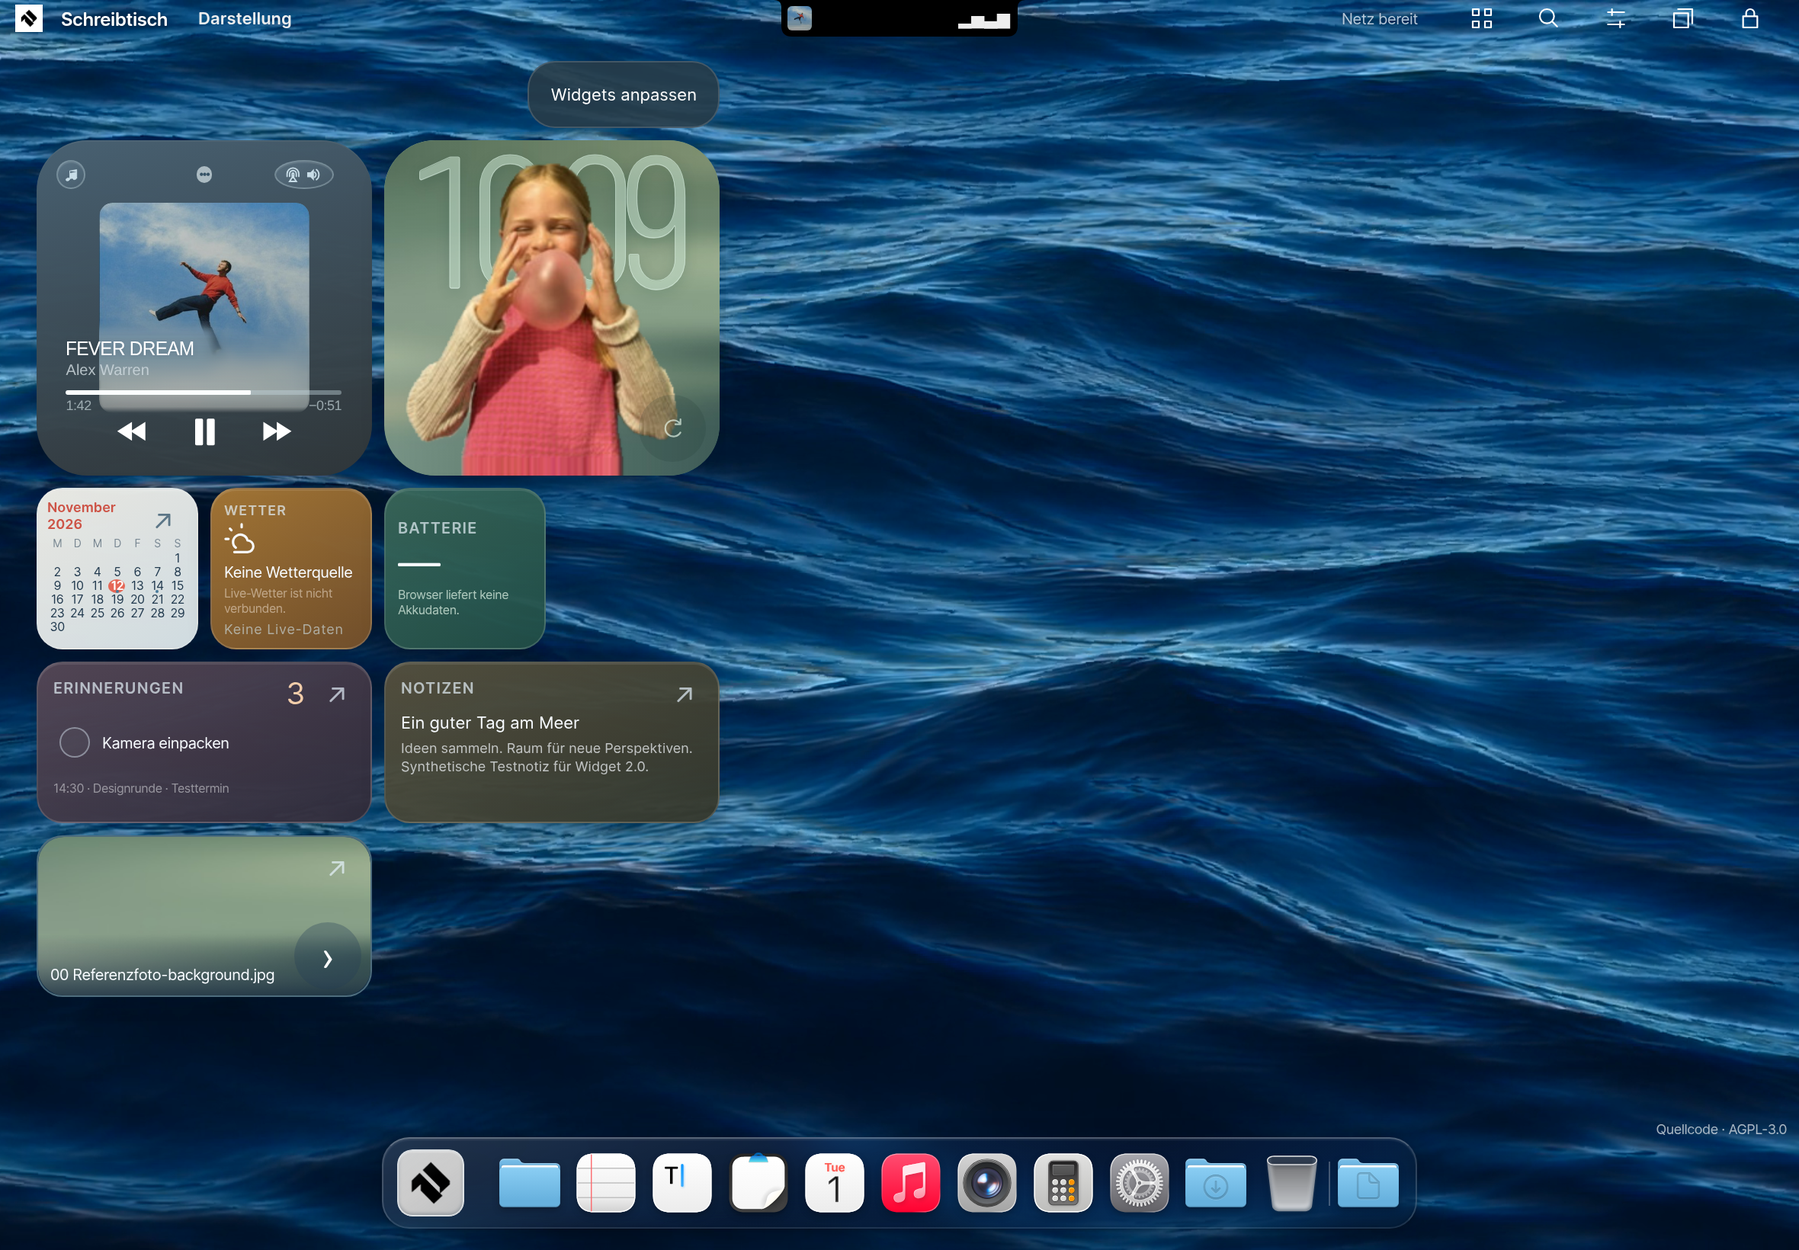
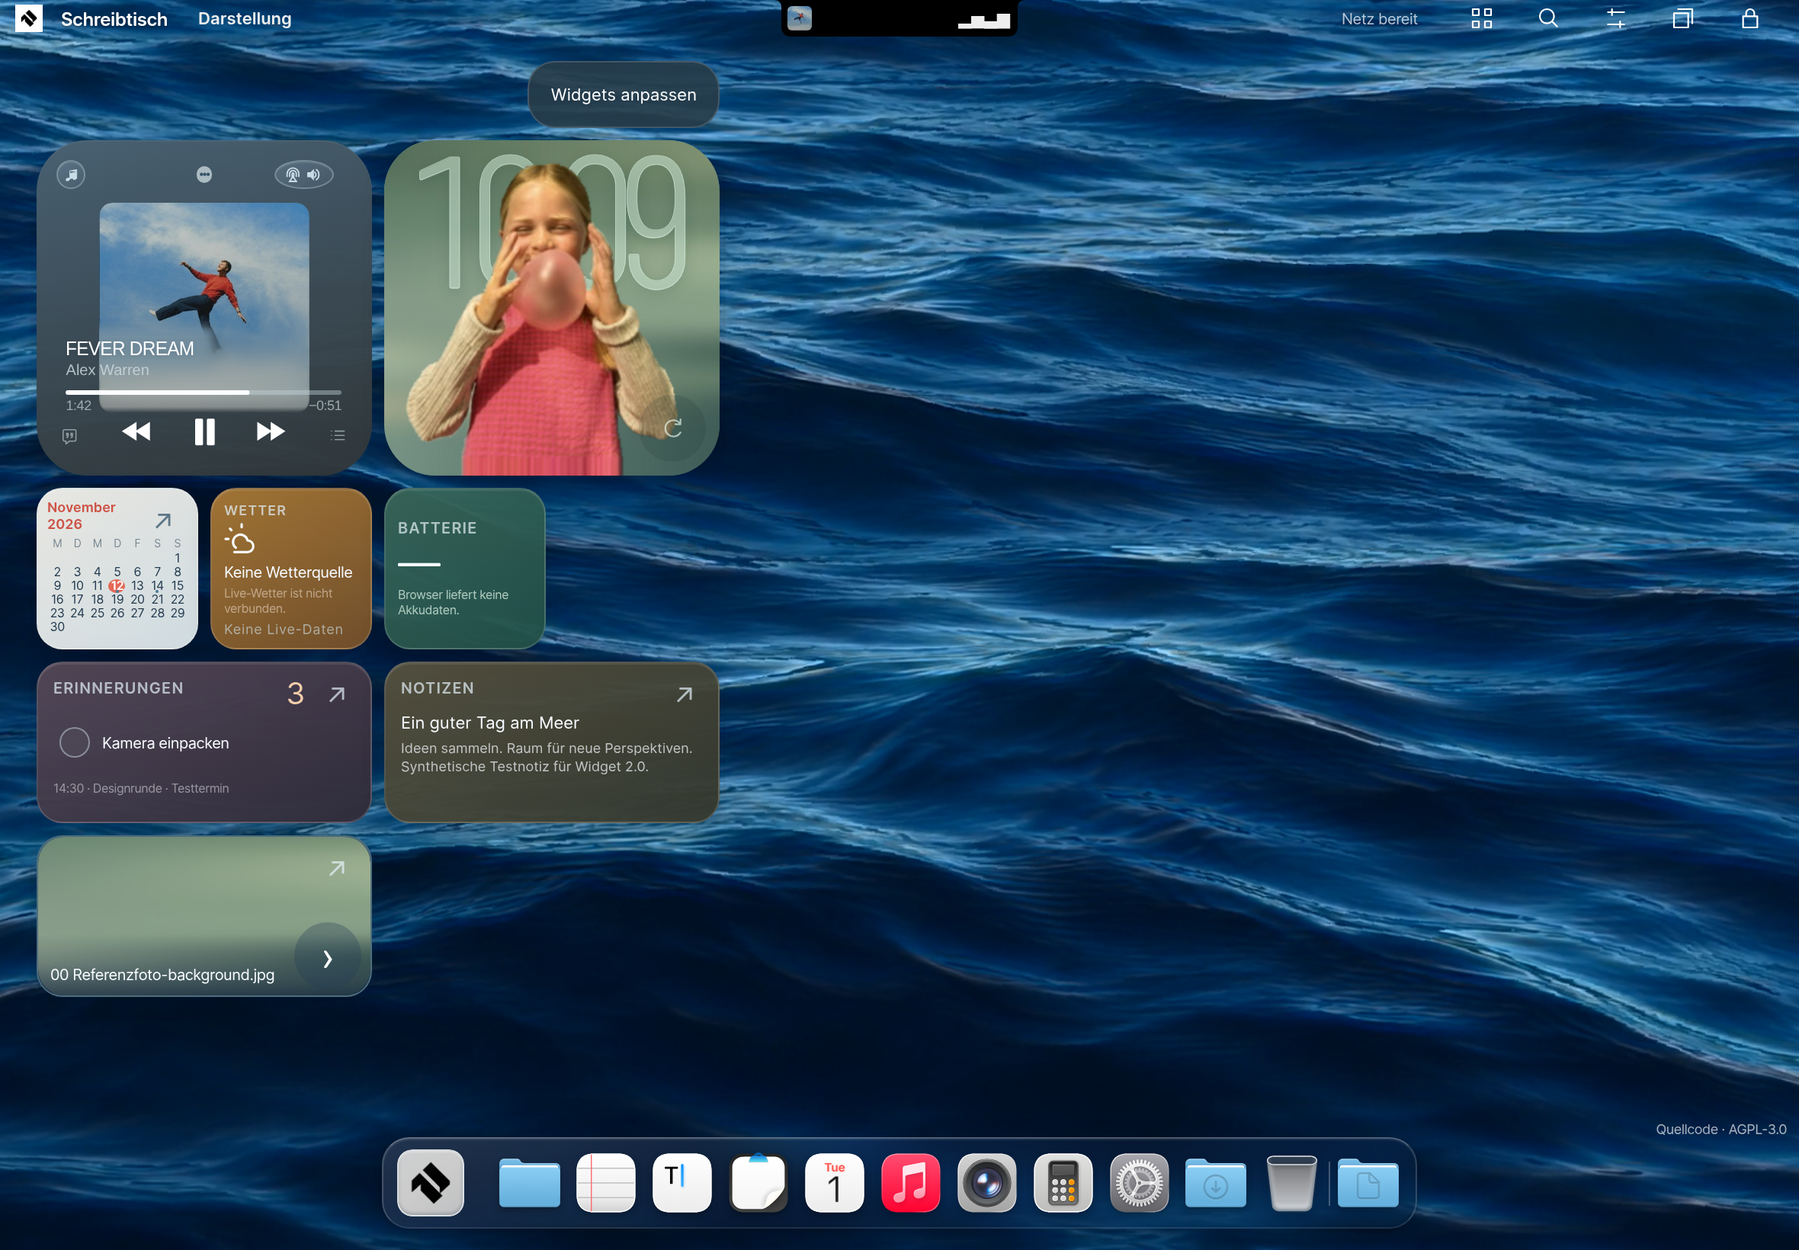
fix(ipad): retain all large player symbols within 220px touch layout

diff --git a/ipad/sw.js b/ipad/sw.js
@@ -1,8 +1,8 @@
 'use strict';
 const CACHE_PREFIX='air-os-ipad-'+encodeURIComponent(self.registration.scope)+'-';
-const CACHE_VERSION=CACHE_PREFIX+'air-os-ipad-v5-3f6326f4f353d0901bc1';
+const CACHE_VERSION=CACHE_PREFIX+'air-os-ipad-v5-4d757c6260c7e52a3532';
 const SHELL=["./","./NOTICE","./air-flow.css","./air-logo.png","./air-os-official.png","./app.js","./apps.js","./assets/fonts/Barlow-OFL.txt","./assets/fonts/OpenRunde-Regular.otf","./assets/fonts/OpenRunde-Semibold.otf","./assets/fonts/barlow-clock.woff2","./assets/forest-path.jpg","./assets/forest-path.metadata.json","./assets/lake-evening.jpg","./assets/lake-evening.metadata.json","./assets/ocean-blue.jpg","./assets/ocean-blue.mp4","./assets/yosemite-morning.metadata.json","./assets/yosemite-morning.png","./backup.js","./core/desktop-sessions.js","./core/genie-model.js","./core/genie-transition.js","./core/infinity-dock.js","./core/infinity-notification.js","./core/infinity-web.js","./core/music-metadata.js","./core/playback-history.js","./core/security.js","./core/transfers.js","./core/visual-icons.js","./core/visual-motion.js","./core/wallpaper.js","./core/widget-layout.js","./core/window-model.js","./desktop.css","./desktop.js","./dock-material.js","./icon.svg","./icons/AUTHORS","./icons/COPYING","./icons/NOTICE","./icons/browser/document-save-symbolic.svg","./icons/browser/edit-copy-symbolic.svg","./icons/browser/edit-delete-symbolic.svg","./icons/browser/edit-paste-symbolic.svg","./icons/browser/go-next-symbolic.svg","./icons/browser/go-previous-symbolic.svg","./icons/browser/go-up-symbolic.svg","./icons/source/actions/16/document-new.svg","./icons/source/actions/16/document-open.svg","./icons/source/actions/16/document-save.svg","./icons/source/actions/16/edit-copy.svg","./icons/source/actions/16/edit-cut.svg","./icons/source/actions/16/edit-delete.svg","./icons/source/actions/16/edit-paste.svg","./icons/source/actions/16/edit-redo.svg","./icons/source/actions/16/edit-undo.svg","./icons/source/actions/16/go-home.svg","./icons/source/actions/16/go-next.svg","./icons/source/actions/16/go-previous.svg","./icons/source/actions/16/go-up.svg","./icons/source/actions/16/list-add.svg","./icons/source/actions/16/list-remove.svg","./icons/source/actions/16/media-playback-pause.svg","./icons/source/actions/16/media-playback-start.svg","./icons/source/actions/16/media-skip-backward.svg","./icons/source/actions/16/media-skip-forward.svg","./icons/source/actions/16/view-refresh.svg","./icons/source/actions/16/window-close.svg","./icons/source/actions/22/view-grid.svg","./icons/source/actions/32/system-search.svg","./icons/source/actions/symbolic/document-save-symbolic.svg","./icons/source/actions/symbolic/edit-copy-symbolic.svg","./icons/source/actions/symbolic/edit-delete-symbolic.svg","./icons/source/actions/symbolic/edit-paste-symbolic.svg","./icons/source/actions/symbolic/go-next-symbolic.svg","./icons/source/actions/symbolic/go-previous-symbolic.svg","./icons/source/actions/symbolic/go-up-symbolic.svg","./icons/source/apps/scalable/accessories-camera.svg","./icons/source/apps/scalable/accessories-text-editor.svg","./icons/source/apps/scalable/calc.svg","./icons/source/apps/scalable/calendar.svg","./icons/source/apps/scalable/evolution-tasks.svg","./icons/source/apps/scalable/gnome-music.svg","./icons/source/apps/scalable/internet-mail.svg","./icons/source/apps/scalable/preferences-system.svg","./icons/source/apps/scalable/text-editor.svg","./icons/source/categories/32/applications-internet.svg","./icons/source/devices/scalable/audio-headphones.svg","./icons/source/devices/scalable/computer.svg","./icons/source/devices/scalable/drive-harddisk.svg","./icons/source/devices/scalable/drive-removable-media.svg","./icons/source/devices/scalable/input-keyboard.svg","./icons/source/places/scalable/folder-documents.svg","./icons/source/places/scalable/folder-download.svg","./icons/source/places/scalable/folder-images.svg","./icons/source/places/scalable/folder-music.svg","./icons/source/places/scalable/folder-videos.svg","./icons/source/places/scalable/folder.svg","./icons/source/places/scalable/user-home.svg","./icons/source/places/scalable/user-trash.svg","./icons/source/status/16/task-complete.svg","./icons/source/status/32/dialog-warning.svg","./licenses/Air-OS-MIT.txt","./licenses/InfinityOS-AGPL-3.0.txt","./licenses/InfinityOS-Linux-GPL-3.0.txt","./licenses/KDE-wallpaper-LGPL-3.0.txt","./licenses/MacShell-MIT.txt","./licenses/MacShell-MacLock-MIT.txt","./licenses/MacTahoe-GTK-MIT.txt","./licenses/OpenRunde-OFL-1.1.txt","./liquid-maclock.css","./maclock.js","./manifest.webmanifest","./notch/model.js","./notch/motion-data.js","./notch/pro-notch.css","./notch/pro-notch.js","./playback-history.js","./premium4.css","./provenance.json","./registry.js","./source/source-info.json","./source/source.zip","./spotify.js","./storage.js","./styles.css","./system3.css","./vendor/SOURCE.json","./vendor/air-arcade-games.css","./vendor/air-arcade-games.js","./vendor/airwrite.css","./vendor/airwrite.js","./vendor/glass/geometry.js","./vendor/glass/maclock-original.frag","./vendor/glass/provenance.json","./vendor/glass/renderer.js","./vendor/glass/shaders.js","./vendor/infinityos/launcher-model.js","./vendor/infinityos/linux-excerpts.txt","./vendor/infinityos/provenance.json","./vendor/infinityos/web-excerpts.txt","./vendor/macshell/clock-dial.js","./vendor/macshell/shell7.js","./vendor/premium4-provenance.json","./vendor/premium4-source-excerpts.txt","./vendor/system3-provenance.json","./wallpaper.css","./widgets-2.css","./widgets.js"];
[2 lines of base64/hex data omitted]
 const scope=new URL(self.registration.scope),allowed=new Map(SHELL.map(p=>[new URL(p,scope).href,p]));
 function withoutRedirect(response){return new Response(response.body,{status:response.status,statusText:response.statusText,headers:response.headers});}
 async function verified(response,path){const expected=INTEGRITY[path];if(!expected||!response?.ok||response.redirected||['opaque','opaqueredirect'].includes(response.type))return false;const mime=(response.headers.get('content-type')||'').split(';')[0].trim().toLowerCase();if(path==='./'&&mime!=='text/html'||path.endsWith('.css')&&mime!=='text/css'||path.endsWith('.js')&&!['text/javascript','application/javascript','text/ecmascript','application/ecmascript'].includes(mime))return false;if(!response.headers.get('Content-Encoding')&&Number(response.headers.get('Content-Length'))>expected.bytes)return false;const reader=response.clone().body?.getReader();if(!reader)return false;let length=0;const chunks=[];try{for(;;){const part=await reader.read();if(part.done)break;length+=part.value.byteLength;if(length>expected.bytes){void reader.cancel().catch(()=>{});void response.body?.cancel().catch(()=>{});return false;}chunks.push(part.value);}}finally{reader.releaseLock();}if(length!==expected.bytes)return false;const bytes=new Uint8Array(length);let at=0;for(const c of chunks){bytes.set(c,at);at+=c.length;}const hash=Array.from(new Uint8Array(await crypto.subtle.digest('SHA-256',bytes)),b=>b.toString(16).padStart(2,'0')).join('');return hash===expected.sha256;}

diff --git a/ipad/index.html b/ipad/index.html
@@ -19,7 +19,7 @@
   <title>Air-OS iPad</title>
   <link rel="stylesheet" href="./vendor/airwrite.css" integrity="sha256-UWDneUryi+OGGtwaCGKI/16aGSVY6YDP8UkHFvJ+P8w="><link rel="stylesheet" href="./vendor/air-arcade-games.css" integrity="sha256-Duk5jAj3Z4mbzPaI0wLWMo41PjQjukaa+Mdtn/9fLE4="><link rel="stylesheet" href="./desktop.css" integrity="sha256-dq5+tzufIrsBGGMswKbyM2OgbM9zhZGj4zsMt0Q9P/s=">
   <script defer src="./core/visual-icons.js" integrity="sha256-oJrcFmIULBekzuVNsv4fZKr3issvyT48TjOMRD2dm1c="></script><script defer src="./registry.js" integrity="sha256-X+Z7pzwrGo5I/cStrX/q73s4y45Ly4X8SDqQ6TgUj8w="></script><script defer src="./core/infinity-web.js" integrity="sha256-gZT6e9ilnM8A/GnHP5IugdctnrtMonf4vp29+XvC1H0="></script><script defer src="./core/infinity-notification.js" integrity="sha256-AZmQ8oIm1jrzFShaG2RFLTCcvSTFdw3UwVFqIS4XIl8="></script><script defer src="./core/infinity-dock.js" integrity="sha256-6iby4VvqdLt1ZZy7KteKgAefWTijvnCSUOo+wGKJCHY="></script><script defer src="./core/desktop-sessions.js" integrity="sha256-FXozxdmvoEaUy2Ryy2JRZ98Ubg4/ii/jotKlEzMsf/o="></script><script defer src="./core/window-model.js" integrity="sha256-Q6u+H2yiZk37dVsqWdZTRBWpDXndy3/7IgLElDfLo9k="></script><script defer src="./core/music-metadata.js" integrity="sha256-tOjV5Yilx2b8HSLqvxYhuAmolaQbWJftLhtSUF5TFks="></script><script defer src="./storage.js" integrity="sha256-0Ccyx4mw9r8W2BSl49emEHLqKOW/dNfZ/+81MBkbiAA="></script><script defer src="./vendor/airwrite.js" integrity="sha256-0xkN4vsNZUOD1YmOvm8UGrLc+jyBhOyGke8DqWgfv/c="></script><script defer src="./vendor/air-arcade-games.js" integrity="sha256-O1sd0DxsdODpG9y8ePCAhXBQbSZrLsQf5OgzFrvfKEo="></script><script defer src="./core/transfers.js" integrity="sha256-lTXgEvkDB/2dfKjVySKrZGXI3f7eUcly+QPYO+Bwkek="></script><script defer src="./app.js" integrity="sha256-bOhGFkgs3FIsCBy+8o2zb0LAbHR+Qm2tEsNQblW8w4I="></script><script defer src="./core/wallpaper.js" integrity="sha256-8fgcZJMVMifkRneKc7U3/Ba6RwyDRaChWIm+hB9AZ9g="></script><script defer src="./apps.js" integrity="sha256-QCgy/5JX0jf+N/UolaiqOMoVjcGVYHVRP4rk1MUS/BY="></script><script defer src="./backup.js" integrity="sha256-wSsfgqhsh/NVqvCMFULrTHoEg4e+VWas5JPKMCSNJiA="></script><script defer src="./vendor/macshell/shell7.js" integrity="sha256-oK82EbrNngVz2IW4X6X/OGwyv1vOBRS/w1itW9a01Us="></script><script defer src="./dock-material.js" integrity="sha256-CcMkKOn2CiRXj2Kru0G4Na3HbNB4pZhXW9/X29wiO0A="></script><script defer src="./vendor/infinityos/launcher-model.js" integrity="sha256-Bo9BP4vSAANCX5dzZ1LLd31aCkyotsy1FUftYOkfz4Q="></script><script defer src="./core/genie-model.js" integrity="sha256-Sg3WtFOMNq8+/4j5XfT7u/eJQoo0G+zxv1CpmOQE1C0="></script><script defer src="./core/visual-motion.js" integrity="sha256-2ieSOmcntrAjTabdeCipbX7LT8o9JVQSJ/7fuNYxcjI="></script><script defer src="./core/genie-transition.js" integrity="sha256-7mAIvHFsX8qH5m2snmOTkzIHr8XnesMrbnwkYjcAgpM="></script><script defer src="./desktop.js" integrity="sha256-pLi00SxuB1WUgSniD/qoETQtXUo0yPB0LQ3Tc5KUIZQ="></script><script defer src="./vendor/macshell/clock-dial.js" integrity="sha256-pPPG3jy70ljPgSzNMxbWahIuSiizrcVV7QXe/CuCUmg="></script><script defer src="./core/widget-layout.js" integrity="sha256-YVPy0ZO024gMaZuLD74sGkD0uYqTVEHxN56W/sZuB24="></script><script defer src="./widgets.js" integrity="sha256-4UPsT8qrQ94+A5TAyEzZa4YM4Ug8yW+Odn51OV0xcqQ="></script><script defer src="./core/playback-history.js" integrity="sha256-FnaZlTfp1mUX/j4iTJD2UvMZP0cBbzFCaSaKsHf3hkA="></script><script defer src="./playback-history.js" integrity="sha256-1F9253GOyM+Htk45/W4YpV0EDSJqr9CWFrydg98Mg2M="></script><script defer src="./spotify.js" integrity="sha256-FQBabe6EobRHQiUyxB9bq8cQ2m17NQi3Z6/DfLxCXwE="></script><script defer src="./vendor/glass/geometry.js" integrity="sha256-Q1EF0peL4XRZ6dgimRZjqf+l8Oi4Qvcqht4Y6FY73Aw="></script><script defer src="./maclock.js" integrity="sha256-FDmFQJB3Q/qZoQgR+jR7GrJ3ILvAglxNRLKKe0ph+oY="></script><script defer src="./notch/motion-data.js" integrity="sha256-8p2H/PLsj0Q8jJKSMhTa8oA2oYLkB9qG766cZF29V/Q="></script><script defer src="./notch/model.js" integrity="sha256-guex9C1JJYN9NA9mi+2BN37Szwtyt2/yFRxI28OmJYE="></script><script defer src="./notch/pro-notch.js" integrity="sha256-pddbmBYtshIgIw1lCMboqsGz30s1WPDYDiqxbePT0Ow="></script><script defer src="./vendor/glass/shaders.js" integrity="sha256-vuaVRH7HS4F+KDnqpLE+nFRYOJN1pz7ksVXNwdHDcks="></script><script defer src="./vendor/glass/renderer.js" integrity="sha256-Q79d5tMuCfi/ur/pmQQEpvL5U+n5skJo4p3TE7qVDbE="></script>
-<link rel="stylesheet" href="./system3.css" integrity="sha256-C498dpr1SsBXZF4s6KykpRattf0sIlDPWfrMREw7imI="><link rel="stylesheet" href="./premium4.css" integrity="sha256-dpWJOJAvcyoSUVv9OGh2lJSN+LDSxziosZeYoSsD3tA="><link rel="stylesheet" href="./liquid-maclock.css" integrity="sha256-fDyAh+Ncj0hcrHbR/wymDug0nahsqNfsFkOk8yz49sM="><link rel="stylesheet" href="./notch/pro-notch.css" integrity="sha256-aity69bsEaOb3Ry3Y4+wqR1HyN7vgKstRNbHkyugjvM="><link rel="stylesheet" href="./air-flow.css" integrity="sha256-iDYQUtuukU7VWkPnH8JvU2qYMzI3MWbb5uixwAU8cxQ="><link rel="stylesheet" href="./wallpaper.css" integrity="sha256-6B0NjydaHKGjx+6Pa/L1O0m4717b0V8ZkIH8aav6lIk=">  <link rel="stylesheet" href="./widgets-2.css" integrity="sha256-381LbsnIbLKphmA5Tu1k9RQaK42+4nA2toD0VnSvKt0=">
+<link rel="stylesheet" href="./system3.css" integrity="sha256-C498dpr1SsBXZF4s6KykpRattf0sIlDPWfrMREw7imI="><link rel="stylesheet" href="./premium4.css" integrity="sha256-dpWJOJAvcyoSUVv9OGh2lJSN+LDSxziosZeYoSsD3tA="><link rel="stylesheet" href="./liquid-maclock.css" integrity="sha256-fDyAh+Ncj0hcrHbR/wymDug0nahsqNfsFkOk8yz49sM="><link rel="stylesheet" href="./notch/pro-notch.css" integrity="sha256-aity69bsEaOb3Ry3Y4+wqR1HyN7vgKstRNbHkyugjvM="><link rel="stylesheet" href="./air-flow.css" integrity="sha256-iDYQUtuukU7VWkPnH8JvU2qYMzI3MWbb5uixwAU8cxQ="><link rel="stylesheet" href="./wallpaper.css" integrity="sha256-6B0NjydaHKGjx+6Pa/L1O0m4717b0V8ZkIH8aav6lIk=">  <link rel="stylesheet" href="./widgets-2.css" integrity="sha256-OHFoQBan65y3wXXNOB0Z1qWO0KvP5dqQXgcakDNnIqI=">
 </head>
 <body>
   <div class="wallpaper" aria-hidden="true"></div>

diff --git a/ipad/widgets-2.css b/ipad/widgets-2.css
@@ -77,7 +77,11 @@ html.pad-reduced-motion .widget-progress-track i{transition:none}@media(prefers-
 .pad-widget-column .player-widget[data-size=large][data-long-title=true] .widget-track strong{top:calc(53cqw - 48px);font-size:11px}
 .player-widget[data-size=large] .widget-timeline>input{top:-38px}
 .player-widget[data-size=large] .widget-music-more{left:calc(50% - 22px);top:calc(10.3% - 22px);font-size:8px}
-.player-widget[data-size=large] .widget-transport>button:first-child,.player-widget[data-size=large] .widget-transport>button:last-child{display:none}
+.pad-widget-column .player-widget[data-size=large] .widget-transport>button:first-child{left:0}
+.pad-widget-column .player-widget[data-size=large] .widget-transport>button:last-child{left:auto;right:0}
+.pad-widget-column .player-widget[data-size=large] [data-widget-control=prev]{left:calc(50% - 66px)}
+.pad-widget-column .player-widget[data-size=large] [data-widget-control=next]{left:calc(50% + 22px)}
+.pad-widget-column .player-widget[data-size=large] .widget-transport .pad-glyph:not(.widget-transport-glyph){min-width:10px;min-height:10px}
 .player-widget .widget-music-head .pad-glyph{min-width:10px;min-height:10px}
 .player-widget .widget-audio-options:before{left:calc((64px - 18.6cqw)/2);right:calc((64px - 18.6cqw)/2)}
 .player-widget .widget-audio-options svg{min-width:28px}

diff --git a/scripts/compare-widget-reference.py b/scripts/compare-widget-reference.py
@@ -29,6 +29,6 @@ for iteration in ['iteration-1','final','compact-220']:
   before=Image.open(root/'final/home-landscape.png').convert('RGB');after=Image.open(base/'home-landscape.png').convert('RGB');canvas=Image.new('RGB',(1348,570),'#eef1f2');d=ImageDraw.Draw(canvas);d.text((16,12),'Vorher · 344 × 344 CSS-Pixel',font=font,fill='#263c4b');d.text((690,12),'Jetzt · 220 × 220 CSS-Pixel',font=font,fill='#263c4b');before.thumbnail((650,500));after.thumbnail((650,500));canvas.paste(before,(16,50));canvas.paste(after,(682,50));canvas.save(out/'size-before-after.png')
   r['musicSizeCSS']=[g['musicBox']['width'],g['musicBox']['height']];r['clockSizeCSS']=[g['clockBox']['width'],g['clockBox']['height']];r['areaRatioTo344']=round(g['musicBox']['width']*g['musicBox']['height']/(344*344),4)
   r['preservedReferenceLandmarks']={k:round(abs(expected-actual)*650,3) for k,expected,actual in [('coverX',.1846,g['music']['.widget-art']['x']),('coverY',.1862,g['music']['.widget-art']['y']),('coverWidth',.6292,g['music']['.widget-art']['width']),('titleX',.0877,g['music']['.widget-track strong']['x']),('artistY',.6615,g['music']['.widget-track small']['y']),('progressY',.7446,g['music']['.widget-progress-track']['y'])]}
-  r['touchAdaptation']='44px hit regions remain unscaled and disjoint. More moves to the header; secondary actions stay in its existing menu. Medium shows real progress; interactive seeking remains in large and Air Music.'
+  r['touchAdaptation']='44px hit regions remain unscaled and disjoint. More moves to the header; large retains five transport targets. Small secondary actions stay in the existing menu. Medium shows real progress; interactive seeking remains in large and Air Music.'
  report['iterations'][iteration]=r
 (out/'report.json').write_text(json.dumps(report,indent=2)+'\n');print(json.dumps(report,indent=2))

diff --git a/docs/WIDGETS-2-1.md b/docs/WIDGETS-2-1.md
@@ -12,7 +12,7 @@ Gespeicherte Reihenfolge und Größen in `widget-layout-v2` und die alte v1-Übe
 
 Das Layout verwendet gemessene relative Koordinaten aus dem 650 × 650-Pixel-Ausschnitt der Nutzerreferenz: Cover links 18,46 %, oben 18,62 %, Breite/Höhe 62,92 %. Titel beginnt links bei 8,77 % und liegt über dem unteren Cover. Künstler, Leiste und Zeitangaben liegen ebenfalls vor dem Cover. Eine begrenzte Blur-Fläche und eine weiche untere Maske verbinden das Bild mit dem Material. Die dunkle Materialfarbe stammt aus einer einmaligen 8×8-Abtastung des vorhandenen Covers.
 
-Transporttasten verwenden eigene gefüllte Air-OS-Geometrien. Play/Pause, Titelwechsel, Seek und Lautstärke steuern den originalen Air-Music-Owner. Der Songtexteintrag im bestehenden Musikmenü öffnet die Notch-Songtextansicht; ohne lokale LRC-Datei zeigt diese ihren echten Leerzustand. Musik-Symbol, Cover-Kurzbefehl und Bibliothekseintrag öffnen die Musikbibliothek. Favorit, Shuffle und Wiederholen sind über das Punktmenü erreichbar. Spotify bleibt eine lesende Projektion mit dem vorhandenen Link und erhält keine vorgetäuschten Remote-Controls.
+Transporttasten verwenden eigene gefüllte Air-OS-Geometrien. Play/Pause, Titelwechsel, Seek und Lautstärke steuern den originalen Air-Music-Owner. Songtextsymbol und Eintrag im bestehenden Musikmenü öffnen die Notch-Songtextansicht; ohne lokale LRC-Datei zeigt diese ihren echten Leerzustand. Musik-Symbol, Cover-Kurzbefehl und Bibliothekseintrag öffnen die Musikbibliothek. Favorit, Shuffle und Wiederholen sind über das Punktmenü erreichbar. Spotify bleibt eine lesende Projektion mit dem vorhandenen Link und erhält keine vorgetäuschten Remote-Controls.
 
 Bei 220 Pixeln bleiben die sichtbaren Musik-Landmarken proportional: Cover, Titel über dem unteren Bild, Fortschrittsleiste und Uhrziffern. Die Punktmenütaste sitzt im Kopfbereich, damit sich alle 44-Pixel-Touchziele voneinander trennen. Der Cover-Kurzbefehl belegt den oberen Coverbereich; seine Beschriftung erscheint weiterhin an der Referenzposition. Die große Karte behält interaktives Seeking. In der mittleren Karte ist die Leiste eine echte Fortschrittsanzeige, Seeking bleibt im großen Widget und Air Music erreichbar. In der kleinen Karte bieten Play und das bestehende Menü jeweils mindestens 44 Pixel; Vor/Zurück und Songtext bleiben dort funktional über das Menü erreichbar. Die mittlere Karte stellt Cover und drei Transportziele nebeneinander dar. Die Bibliothek bleibt über den Cover-Kurzbefehl erreichbar. Lange Titel können innerhalb ihres Textbereichs gelesen werden und erhalten die vollständige zugängliche Beschriftung.
 

diff --git a/docs/testing/widgets-2-1/README.md b/docs/testing/widgets-2-1/README.md
@@ -4,7 +4,7 @@ Alle Anwendungsbilder sind echte Playwright-Screenshots der laufenden, paketiert
 
 ## Aktueller kompakter Stand
 
-Musik und Foto-Uhr messen **220 × 220 CSS-Pixel**, kleine Widgets 106 × 106, mittlere 220 × 106 Pixel. Die große Kartenfläche sinkt gegenüber 344 × 344 um rund 59 %. Rasterabstand: 8 Pixel. Vorherige Bilder und Messungen bleiben als historische Belege erhalten. Alle sichtbaren Musikaktionen besitzen weiterhin mindestens 44 × 44 Pixel große, voneinander getrennte Touchziele; Zusatzaktionen liegen im vorhandenen Musikmenü.
+Musik und Foto-Uhr messen **220 × 220 CSS-Pixel**, kleine Widgets 106 × 106, mittlere 220 × 106 Pixel. Die große Kartenfläche sinkt gegenüber 344 × 344 um rund 59 %. Rasterabstand: 8 Pixel. Vorherige Bilder und Messungen bleiben als historische Belege erhalten. Alle sichtbaren Musikaktionen besitzen weiterhin mindestens 44 × 44 Pixel große, voneinander getrennte Touchziele; Die große Karte behält alle fünf unteren Musiksymbole; kleine Karten bieten Zusatzaktionen im vorhandenen Musikmenü.
 
 | Neue Aufnahme | Datei |
 | --- | --- |
